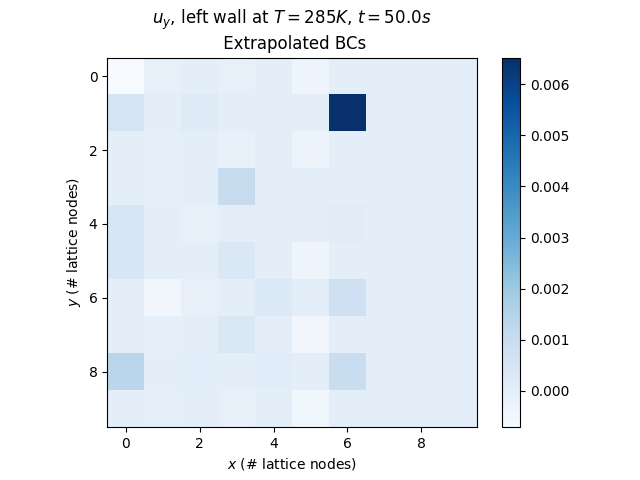
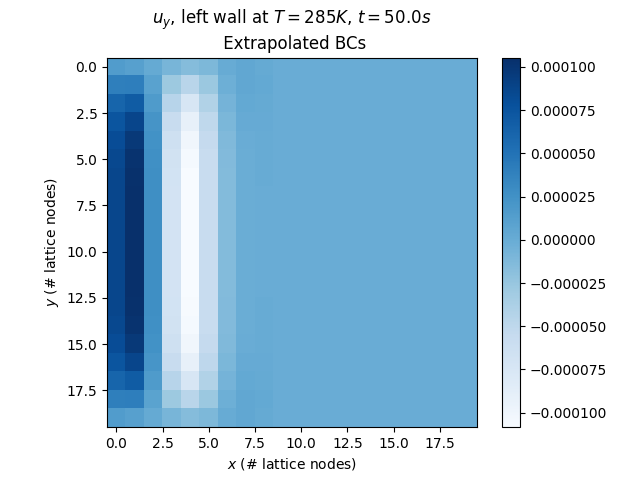
Commit 1 26maa

diff --git a/hsource_trt-fsm_sq_cav.py b/hsource_trt-fsm_sq_cav.py
@@ -23,7 +23,7 @@ beta = 210e-6       # Thermal expansion (1/K)
 Lat = 334e3         # Latent heat (J/kg)
 c_p = 4.2e3         # Specific heat (J/(kgK))
 Tm = 273.15         # Melting point (K)
-epsilon = 0.5       # Width mushy zone (K)
+epsilon = 0.1       # Width mushy zone (K)
 h_s = c_p * Tm      # Specific enthalpy of solid (J/kg)
 h_l = h_s + Lat     # Specific enthalpy of liquid (J/kg)
 
@@ -42,7 +42,7 @@ Ma = 0.1                                            # Mach number
 Lambda = 1/4        # Magic parameter
 tau_plus = 1        # Even relaxation time
 rho0_sim = 1        # Starting simulation density
-Ny = 10             # Nodes in y-direction
+Ny = 20             # Nodes in y-direction
 
 dx_sim = 1          # simulation length
 dt_sim = 1          # simulation time
@@ -352,15 +352,7 @@ def temperature(T, alpha, Lat, c_p, beta, ux, uy, t, T_dim_H, f_l_t_1, f_l_t_2):
 
                     f_l[i-1, j-1] = f_l_old_iter + 0.1 * c_p / Lat * (T_new_phys - T_prime)
 
-                    # if t in [408, 409]:
-                    #     if (i == 1) and (j == 10):
-                    #         print(1, T_new)
-                    #         print(1, T_prime)
-                    #         print(1, T_new_phys)
-                    #         print(1, f_l)
-
-                    ########
-                    if np.abs(f_l[i-1, j-1] - f_l_old_iter) < 10: #e-9:
+                    if np.abs(f_l[i-1, j-1] - f_l_old_iter) < 1e-9:
                         # print(x)
                         break
 
@@ -373,8 +365,9 @@ def temperature(T, alpha, Lat, c_p, beta, ux, uy, t, T_dim_H, f_l_t_1, f_l_t_2):
     T_new[-1, :] = 21/23 * T_new[-2, :] + 3/23 * T_new[-3, :] - 1/23 * T_new[-4, :]                 # Neumann extrapolation on right boundary
     T_new[0, :] = 16/15 * T_dim_H - 3 * T_new[1, :] + T_new[2, :] - 1/5 * T_new[3, :]               # Dirichlet extrapolation on left boundary
 
-    # easy_view(2, T_new / beta + T0)
-    easy_view(t, f_l)
+    if (t % 2500 == 0):
+        easy_view(t, T_new / beta + T0)
+        easy_view(t, f_l)
 
     return T_new, f_l, f_l_t_1
 
@@ -409,8 +402,8 @@ for t in range(Nt):
     ux = np.sum(f_minus[:, :] * c_i[:, 0], axis=2) / rho_sim + (1 - B[:, :]) / 2 * F_buoy[:, :, 0]  # Calculate x velocity (odd parts due to symmetry)
     uy = np.sum(f_minus[:, :] * c_i[:, 1], axis=2) / rho_sim + (1 - B[:, :]) / 2 * F_buoy[:, :, 1]  # Calculate y velocity (odd parts due to symmetry)
 
-    ux[B == 1] = 0      # Force velocity in solid to zero
-    uy[B == 1] = 0
+    ux[np.round(B) == 1] = 0      # Force velocity in solid to zero
+    uy[np.round(B) == 1] = 0
 
     # Calculate temperature and liquid fraction
     T_dim, f_l, f_l_t_1 = temperature(T_dim, alpha_sim, Lat, c_p, beta, ux, uy, t, T_dim_H, f_l, f_l_t_1)
@@ -428,7 +421,7 @@ for t in range(Nt):
     f_i = streaming(Nx, Ny, f_i, f_star)
     f_plus, f_minus = decompose_f_i(q, f_plus, f_minus, f_i)
 
-    if (t % 2500 == 0):
+    if (t % 9999 == 0):
         T = T_dim / beta + T0
 
         # Liquid fraction
